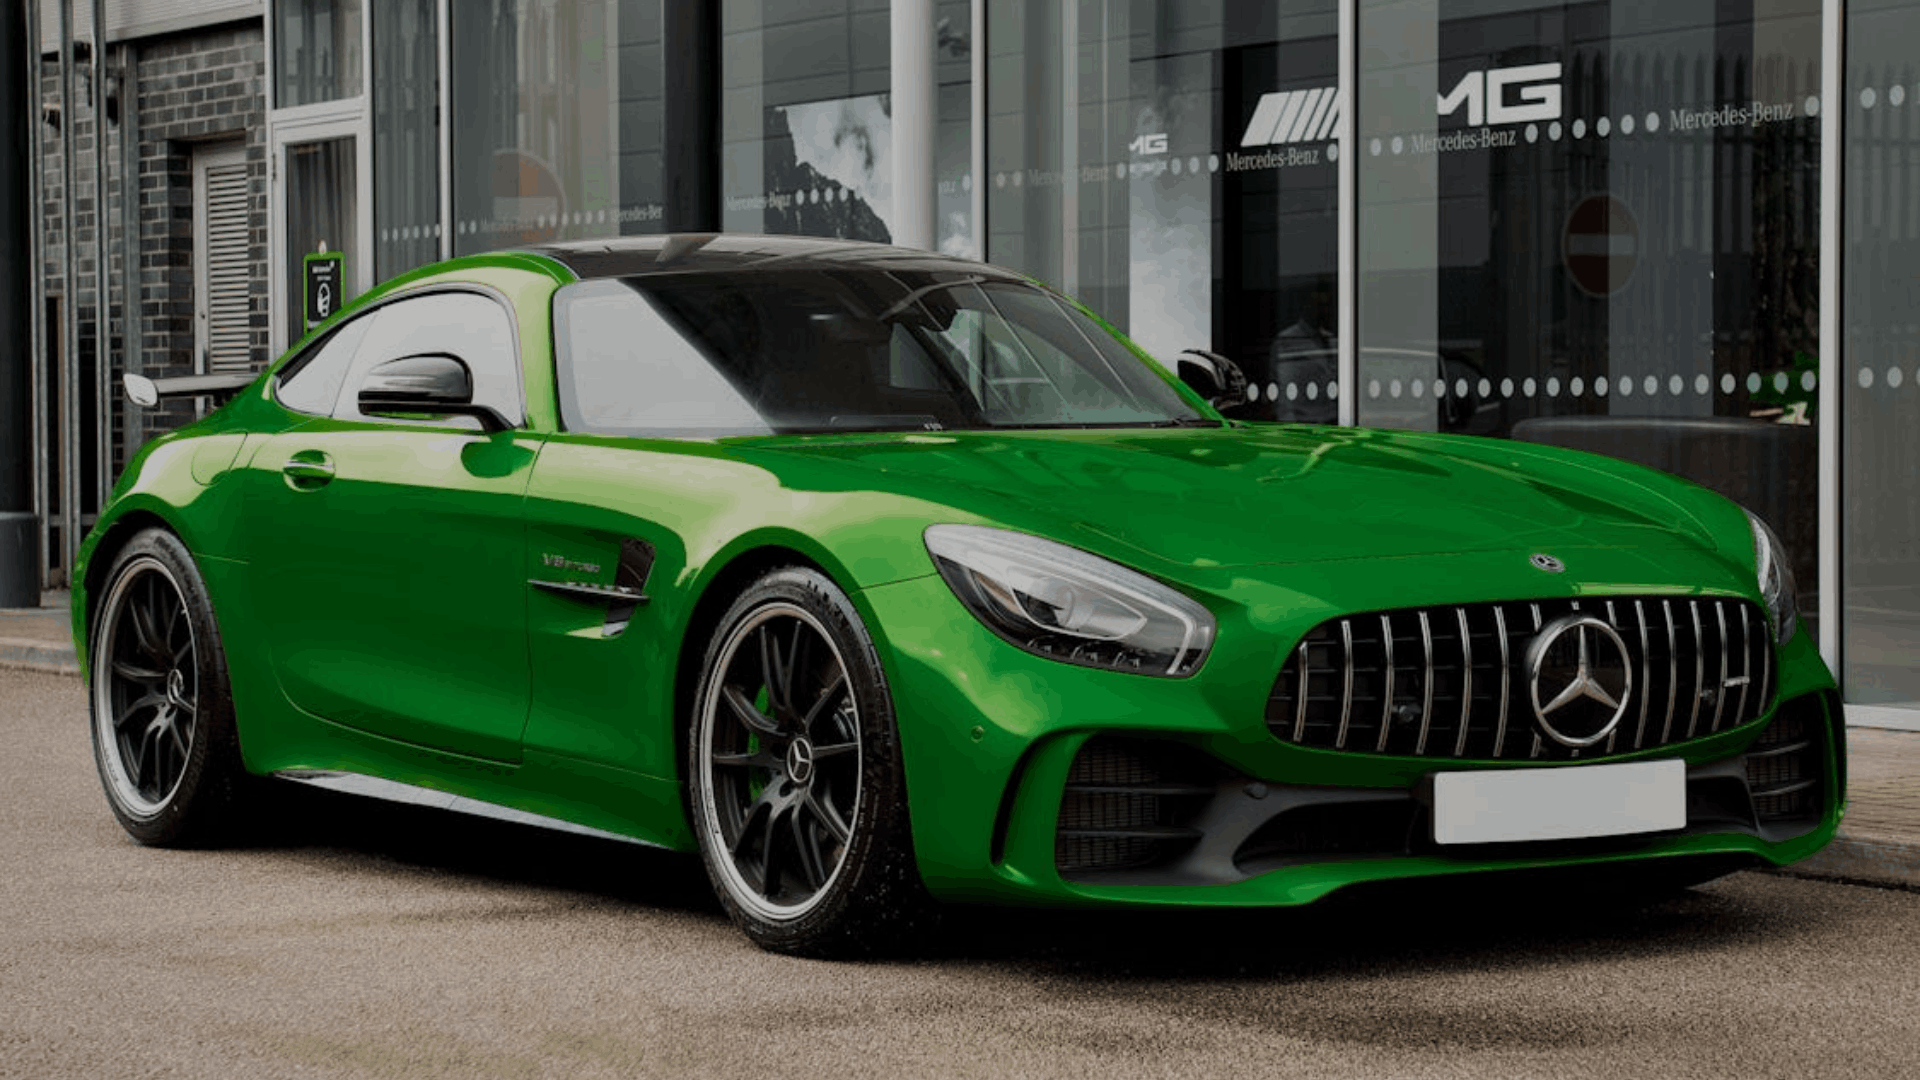
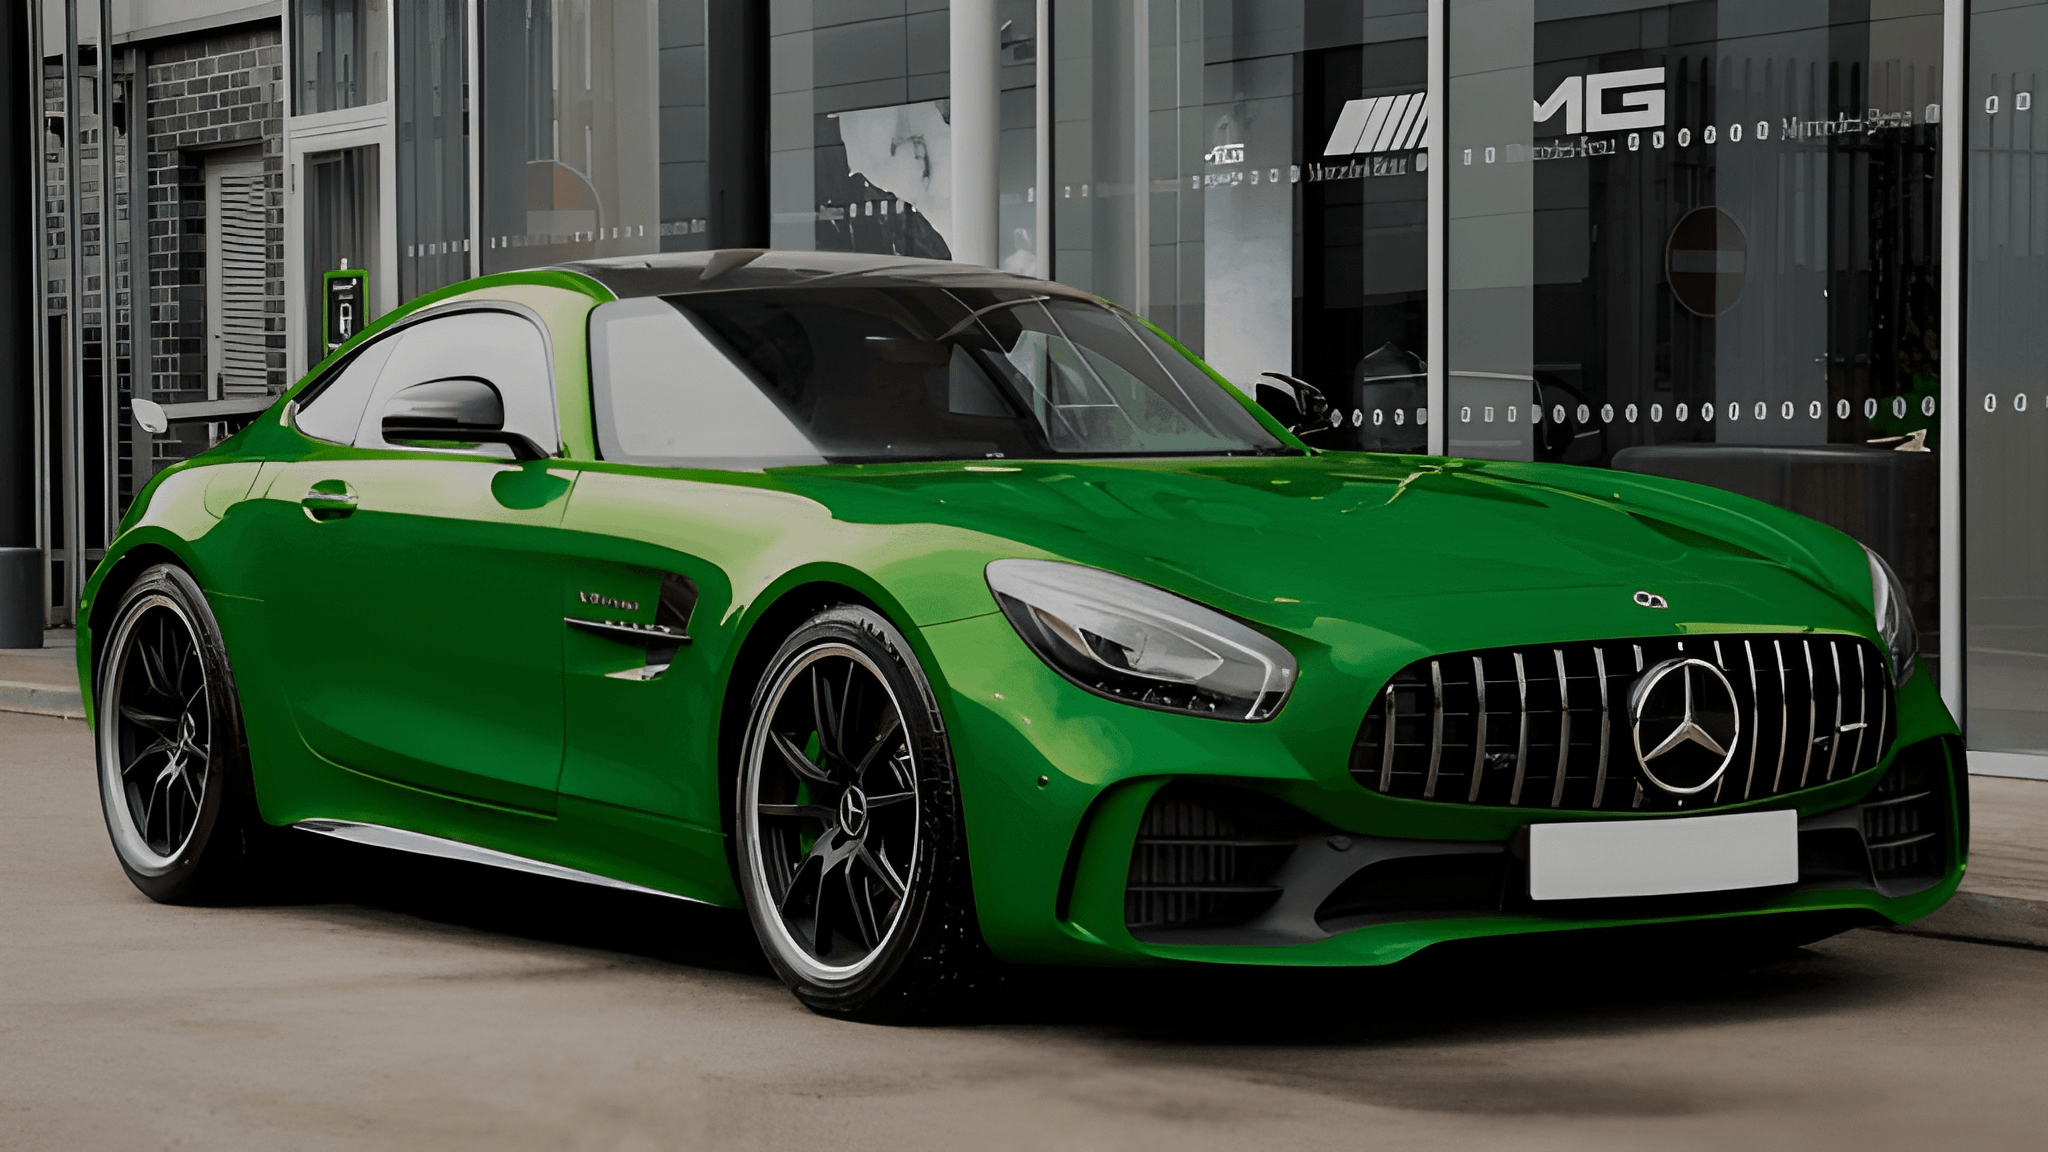
one stop panel new updated

diff --git a/book-assessment.php b/book-assessment.php
@@ -5,17 +5,7 @@ use MailerSend\Helpers\Builder\Recipient;
 use MailerSend\Helpers\Builder\EmailParams;
 include 'inc/config.php';
 include 'inc/header.php';
-
-
-echo "Reached dotenv load...<br>";
-flush();
-
-use Dotenv\Dotenv;
-$dotenv = Dotenv::createImmutable(__DIR__); 
-$dotenv->safeLoad();
-
-echo "Dotenv loaded.<br>";
-flush();
+ 
 
 $success = '';
 $error = '';
@@ -29,8 +19,7 @@ if ($_SERVER['REQUEST_METHOD'] === 'POST') {
     $captcha_response = json_decode($verify);
     $captcha_response = 1;
 
-    if ($captcha_response==1) {
-        $location = $_POST['location'] ?? '';
+    if ($captcha_response == 1) {
         $date = $_POST['date'] ?? '';
         $time = $_POST['time'] ?? '';
         $name = filter_var($_POST['name'], FILTER_SANITIZE_STRING);
@@ -44,16 +33,15 @@ if ($_SERVER['REQUEST_METHOD'] === 'POST') {
 
         // Send email using MailerSend
         try {
-            var_dump($_ENV['MAILERSEND_API_KEY']); //  Check if API key is loaded
+            var_dump($_ENV['MAILERSEND_API_KEY']); // Debug: Check if API key is loaded
             $mailersend = new MailerSend(['api_key' => $_ENV['MAILERSEND_API_KEY']]);
             $recipients = [new Recipient($email, $name)];
             $emailParams = (new EmailParams())
-                ->setFrom('onestoppanel2023@gmail.com')  
+                ->setFrom('onestoppanel2023@gmail.com') // Ensure this is verified
                 ->setTo($recipients)
                 ->setSubject('Appointment Confirmation')
                 ->setHtml("
                     <h3>Appointment Details</h3>
-                    <p><strong>Location:</strong> $location</p>
                     <p><strong>Date:</strong> $date</p>
                     <p><strong>Time:</strong> $time</p>
                     <p><strong>Name:</strong> $name</p>
@@ -65,7 +53,7 @@ if ($_SERVER['REQUEST_METHOD'] === 'POST') {
                     <p><strong>Claim Number:</strong> $claim_num</p>
                     <p><strong>Notes:</strong> $notes</p>
                 ")
-                ->setText("Appointment Details\nLocation: $location\nDate: $date\nTime: $time\nName: $name\nPhone: $phone\nEmail: $email\nAddress: $address\nVehicle Registration: $vehicle_reg\nInsurer: $insurer\nClaim Number: $claim_num\nNotes: $notes");
+                ->setText("Appointment Details\nDate: $date\nTime: $time\nName: $name\nPhone: $phone\nEmail: $email\nAddress: $address\nVehicle Registration: $vehicle_reg\nInsurer: $insurer\nClaim Number: $claim_num\nNotes: $notes");
 
             $mailersend->email->send($emailParams);
             $success = 'Appointment booked successfully! Confirmation email sent.';
@@ -95,40 +83,10 @@ if ($_SERVER['REQUEST_METHOD'] === 'POST') {
         <?php endif; ?>
 
         <form id="multi-step-form" class="multi-step-form" method="POST" action="">
-            <!-- Step 1: Select Location -->
+            <!-- Step 1: Select Date and Time -->
             <div class="step active" data-step="1">
-                <h3>Select a Location</h3>
-                <div class="locations" data-aos="fade-up" data-aos-delay="750">
-                    <div class="location-item">
-                        <input type="radio" hidden id="loc1" name="location" value="Wellington City - Sky Stadium (89 Waterloo Quay, Pipitea, Wellington, 6011)" required>
-                        <label for="loc1" class="location-card">
-                            <img src="assets/img/wellington.png" alt="Wellington City">
-                            <div>
-                                <h4 class="pb-0 mb-0">Wellington City - Sky Stadium (89 Waterloo Quay, Pipitea, Wellington, 6011)</h4>
-                                <p class="pt-0 mt-0"><small>Most estimate appointments take just 15 Minutes</small></p>
-                                <p><br><b>Online bookings</b> are for vehicles that are driveable only - If your vehicle needs to be towed please call our customer service team<br><br><b>Multiple locations</b> - Assessments and Repairs do not necessarily need to be completed at the same branch so check availability at other branches online or discuss options for the soonest availability with our friendly Customer Service staff.<br><br>Please choose a location and follow the instructions to book online.<br><br><b>Remote assessment</b> - are available on request where feasible depending on the level of damage.</p>
-                            </div>
-                        </label>
-                    </div>
-                    <div class="location-item">
-                        <input type="radio" hidden id="loc2" name="location" value="Johnsonville (2 Frank Johnson Street, Johnsonville, 6037)" required>
-                        <label for="loc2" class="location-card">
-                            <img src="assets/img/wellington.png" alt="Johnsonville">
-                            <div>
-                                <h4 class="pb-0 mb-0">Johnsonville (2 Frank Johnson Street, Johnsonville, 6037)</h4>
-                                <p class="pt-0 mt-0"><small>Most estimate appointments take just 15 Minutes</small></p>
-                                <p><br><b>Online bookings</b> are for vehicles that are driveable only - If your vehicle needs to be towed please call our customer service team<br><br><b>Multiple locations</b> - Assessments and Repairs do not necessarily need to be completed at the same branch so check availability at other branches online or discuss options for the soonest availability with our friendly Customer Service staff.<br><br>Please choose a location and follow the instructions to book online.<br><br><b>Remote assessment</b> - are available on request where feasible depending on the level of damage.</p>
-                            </div>
-                        </label>
-                    </div>
-                </div>
-            </div>
-
-            <!-- Step 2: Select Date and Time -->
-            <div class="step" data-step="2">
                 <h3>Pick a Date and Time</h3>
                 <p>Duration: 15 minutes</p>
-                <p id="selected-location"></p>
                 <div class="calendar-section" data-aos="fade-up" data-aos-delay="750">
                     <div class="calendar-header">
                         <button type="button" class="nav-month" data-dir="-1">&lt;</button>
@@ -150,11 +108,9 @@ if ($_SERVER['REQUEST_METHOD'] === 'POST') {
                 </div>
             </div>
 
-            <!-- Step 3: Provide Information -->
-            <div class="step" data-step="3">
+            <!-- Step 2: Provide Information -->
+            <div class="step" data-step="2">
                 <h3>Provide Information</h3>
-                <p>Workshop Location: <span id="info-location"></span></p>
-                <p>Reference: <span id="info-reference"></span></p>
                 <p>Time: <span id="info-date"></span>, <span id="info-time"></span> - <span id="info-end-time"></span></p>
                 <div class="form-inputs" data-aos="fade-up" data-aos-delay="750">
                     <label for="name">Your name*</label>
@@ -258,20 +214,15 @@ document.addEventListener('DOMContentLoaded', function() {
         nextBtn.style.display = step < steps.length ? 'inline-block' : 'none';
         submitBtn.style.display = step === steps.length ? 'inline-block' : 'none';
 
-        if (step === 2) {
-            const location = form.querySelector('input[name="location"]:checked')?.value;
-            document.getElementById('selected-location').textContent = location || 'No location selected';
+        if (step === 1) {
             renderCalendar();
             const selectedDate = document.getElementById('selected-date-value').value || currentDateStr;
             generateTimeSlots(selectedDate);
         }
-        if (step === 3) {
-            const location = form.querySelector('input[name="location"]:checked')?.value;
+        if (step === 2) {
             const time = form.querySelector('input[name="time"]:checked')?.value;
             const date = document.getElementById('selected-date-value').value;
             const endTime = new Date(`${date} ${time}`).getTime() + 15 * 60000;
-            document.getElementById('info-location').textContent = location || 'Unknown';
-            document.getElementById('info-reference').textContent = location || 'Unknown';
             document.getElementById('info-date').textContent = date ? new Date(date).toLocaleDateString() : 'Unknown';
             document.getElementById('info-time').textContent = time || 'Unknown';
             document.getElementById('info-end-time').textContent = new Date(endTime).toLocaleTimeString([], { hour: '2-digit', minute: '2-digit' });
@@ -329,8 +280,7 @@ document.addEventListener('DOMContentLoaded', function() {
     });
 
     nextBtn.addEventListener('click', () => {
-        if (currentStep === 1 && !form.querySelector('input[name="location"]:checked')) return;
-        if (currentStep === 2 && (!form.querySelector('input[name="time"]:checked') || !document.getElementById('selected-date-value').value)) return;
+        if (currentStep === 1 && (!form.querySelector('input[name="time"]:checked') || !document.getElementById('selected-date-value').value)) return;
         if (currentStep < steps.length) {
             currentStep++;
             showStep(currentStep);
@@ -344,18 +294,9 @@ document.addEventListener('DOMContentLoaded', function() {
         }
     });
 
-    form.querySelectorAll('input[name="location"]').forEach(input => {
-        input.addEventListener('change', () => {
-            if (currentStep === 1) {
-                currentStep++;
-                showStep(currentStep);
-            }
-        });
-    });
-
     form.querySelectorAll('#time-options').forEach(container => {
         container.addEventListener('change', (e) => {
-            if (e.target.name === 'time' && currentStep === 2) {
+            if (e.target.name === 'time' && currentStep === 1) {
                 const time = e.target.value;
                 const date = document.getElementById('selected-date-value').value;
                 if (date && time) alert(`Your selected date: ${new Date(date).toLocaleDateString()} and time: ${time}`);

diff --git a/index.php b/index.php
@@ -6,7 +6,7 @@
         <div class="swiper-wrapper">
             <div class="swiper-slide">
                 <div class="ak-hero ak-style1 slide-inner">
-                    <img src="assets/img/hero_slider_bg_1.png" class="ak-hero-bg ak-bg object-cover" alt="one stop panel slider 1">
+                    <img src="assets/img/hero_slider_bg_1.png?v=2" class="ak-hero-bg ak-bg object-cover" alt="one stop panel slider 1">
                     <div class="container">
                         <div class="hero-slider-info">
                             <div class="slider-info">
@@ -28,7 +28,7 @@
             </div>
             <div class="swiper-slide">
                 <div class="ak-hero ak-style1 slide-inner">
-                    <img src="assets/img/hero_slider_bg_2.png" class="ak-hero-bg ak-bg object-cover" alt="one stop panel slider 2">
+                    <img src="assets/img/hero_slider_bg_2.png?v=2" class="ak-hero-bg ak-bg object-cover" alt="one stop panel slider 2">
                     <div class="container">
                         <div class="hero-slider-info">
                             <div class="slider-info">
@@ -50,7 +50,7 @@
             </div>
             <div class="swiper-slide">
                 <div class="ak-hero ak-style1  slide-inner">
-                    <img src="assets/img/hero_slider_bg_3.png" class="ak-hero-bg ak-bg object-cover" alt="one stop panel slider 3">
+                    <img src="assets/img/hero_slider_bg_3.png?v=2" class="ak-hero-bg ak-bg object-cover" alt="one stop panel slider 3">
                     <div class="container">
                         <div class="hero-slider-info">
                             <div class="slider-info">
@@ -75,7 +75,7 @@
             </div>
             <div class="swiper-slide">
                 <div class="ak-hero ak-style1 slide-inner">
-                    <img src="assets/img/hero_slider_bg_4.png" class="ak-hero-bg ak-bg object-cover" alt="one stop panel slider 4">
+                    <img src="assets/img/hero_slider_bg_4.png?v=2" class="ak-hero-bg ak-bg object-cover" alt="one stop panel slider 4">
                     <div class="container">
                         <div class="hero-slider-info">
                             <div class="slider-info">
@@ -373,10 +373,15 @@
     <div class="d-flex justify-content-center mb-5" >
         <div class="sticky-content container">
             <div class="container">
-        <div class="row row-cols-xl-12 row-cols-md-12 row-cols-1 g-4">
+        <div class="row row-cols-xl-12 row-cols-md-12 row-cols-1 g-4"> 
+		<div class="ak-section-heading ak-style-1">
+                        <div class="background-text">Services</div>
+                        <h2 class="ak-section-title">Our Services</h2>
+                        
+                    </div>
+                     
             <div class="col">
-                 <p class="desc">As a leading automotive collision repair specialist in Gracefield, One Stop Panel and
-Paint Ltd proudly offers over 10 years of trusted experience, owned and operated by a
+                 <p class="desc">As a leading automotive collision repair specialist in Gracefield, One Stop Panel and Paint <?php echo $year; ?> Ltd proudly offers over 10 years of trusted experience, owned and operated by a
 dedicated New Zealand family since 2023. Over the years, we have earned a reputation
 for excellence, blending family care with top-tier industry standards. Our state-of-theart workshops are equipped with modern technology and tools, enabling us to repair a
 diverse range of vehicle brands to manufacturer specifications. We collaborate closely
@@ -388,23 +393,14 @@ communication, swift turnaround times, and unwavering quality.
 Our highly skilled and knowledgeable team handles all facets of automotive repair
 and refinishing, from minor cosmetic fixes to extensive collision damage. With professionalism, dedication, and meticulous attention to detail, we are committed to restoring
 your vehicles safety, performance, and aesthetic appeal. No matter the damage, you can
-trust One Stop Panel and Paint for expert service, reliable results, and craftsmanship
+trust One Stop Panel and Paint <?php echo $year; ?> Ltd for expert service, reliable results, and craftsmanship
 that endures.
 </p>
             </div>
             
         </div>
     </div>
-            <div class="sidebar width-none">
-                <div class="services-content">
-                    <div class="ak-section-heading ak-style-1">
-                        <div class="background-text" data-aos="fade-right" data-aos-duration="1000">Services</div>
-                        <h2 class="ak-section-title">Our<br> Services</h2>
-                        
-                    </div>
-                     
-                </div>
-            </div>
+            
         </div>
     </div>
     <div class="scroll-end-point"></div>
@@ -434,7 +430,7 @@ that endures.
                             </a>
 							<p class="mt-2 mb-2 p-subtxt"><b>Don’t let accident damage hold you back.</b></p>
 							
-    <p class="custom-fs p-subtxt mb-3">Contact your insurer about One Stop Panel and Paint Ltd at 182 Gracefield Road, and we’ll handle everything. If your vehicle is drivable, we offer appointment-based repairs for seamless scheduling.</p>
+    <p class="custom-fs p-subtxt mb-3">Contact your insurer about One Stop Panel and Paint <?php echo $year; ?> Ltd at 182 Gracefield Road, and we’ll handle everything. If your vehicle is drivable, we offer appointment-based repairs for seamless scheduling.</p>
 	<a href="tel:<?php echo $phone; ?>" class="more-btn1 mt-2">
 <img src="assets/img/phone.svg" alt="..."> Call now to book with the centre nearest you and one of our staff will manage your repair through our facilities.</a>
 							 
@@ -461,7 +457,7 @@ that endures.
 							<p class="mt-2 mb-2 p-subtxt"><b>We prioritise efficient scheduling while never compromising on quality.</b></p>
 							
 						<p class="custom-fs p-subtxt mb-3">In todays fast-paced auto industry, success comes from top equipment and skilled training.
-						At One Stop Panel and Paint, our advanced facilities meet manufacturer specs. We aim
+						At One Stop Panel and Paint <?php echo $year; ?> Ltd, our advanced facilities meet manufacturer specs. We aim
 						for 80% I-CAR trained staff, plus BYD specialist training, ensuring safe, precise repairs
 						that protect your vehicles performance and warranty</p>
 							 <a href="tel:<?php echo $phone; ?>" class="more-btn1 mt-2">
@@ -664,7 +660,7 @@ It’s our promise that your car is repaired to the highest standards, ensuring 
                                 </div>
                                 <h4 class="desp">“Outstanding work by One Stop Panel and Paint! Transformed my car”</h4>
                             </div>
-                            <img src="assets/img/testmaonail_1.png" alt="..." class="testimaonial-slide-img">
+                            <img src="assets/img/testimaonial.png" alt="testimaonial.png" class="testimaonial-slide-img">
                         </div>
                     </div>
                 </div>

diff --git a/inc/footer.php b/inc/footer.php
@@ -14,7 +14,7 @@
                 <img src="assets/img/logo/logo.png" alt="..." style="width:40%;">
                 <div class="ak-height-15 ak-height-lg-10"></div>
             </div>
-                    <p  class="desp">Contact One Stop Panel and Paint Ltd at <?php echo $address; ?> NZ for top denting and painting services since <?php echo $year; ?>.</p>
+                    <p  class="desp">Contact One Stop Panel and Paint <?php echo $year; ?> Ltd at <?php echo $address; ?> NZ for top denting and painting services since <?php echo $year; ?>.</p>
                     <div class="ak-height-35 ak-height-lg-30"></div>
                     <div class="d-flex align-items-center gap-3">
                         <div class="heartbeat-icon">
@@ -116,8 +116,8 @@
             </div>
             <div class="ak-height-70 ak-height-lg-30"></div>
             <div class="primary-color-border"></div>
-            <div class="copy-right">
-                <p class="title  text-hover-animaiton">Copyright 2025, All Right reserved</p>
+            <div class="copy-right text-center">
+                <p class="title  text-hover-animaiton">Copyright 2025, All Right reserved. Developed By: <a href="tel:+642904305672">HM</a></p>
                 <div class="social-icon">
                     <a href="#">
                         <svg xmlns="http://www.w3.org/2000/svg" width="16" height="17" viewBox="0 0 16 17" fill="none">
